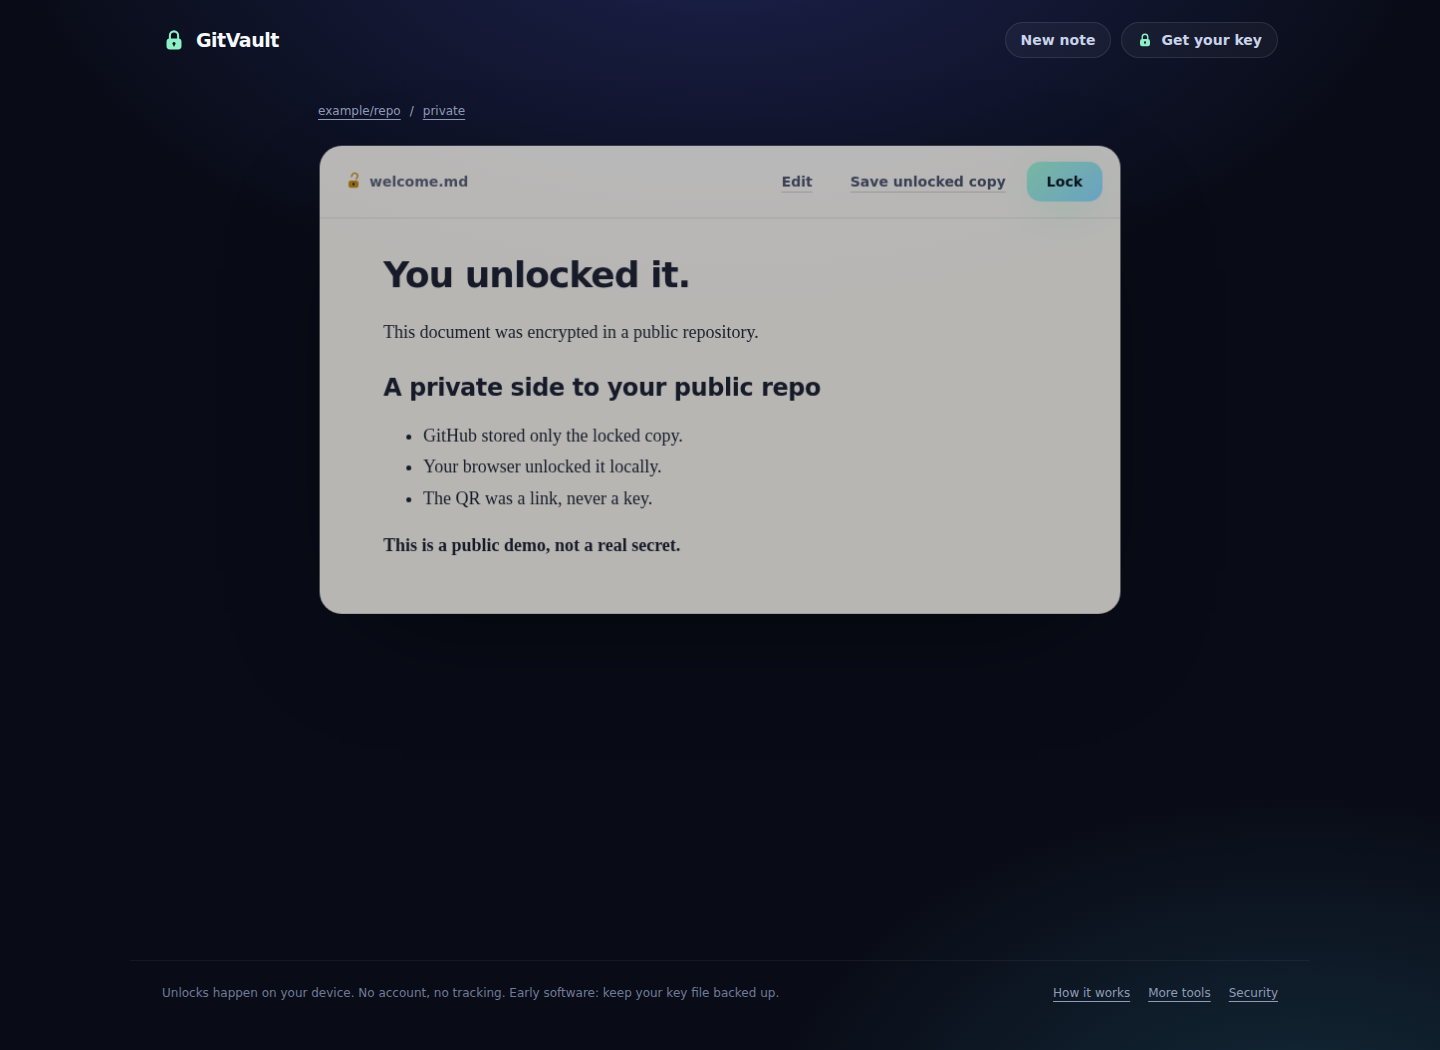
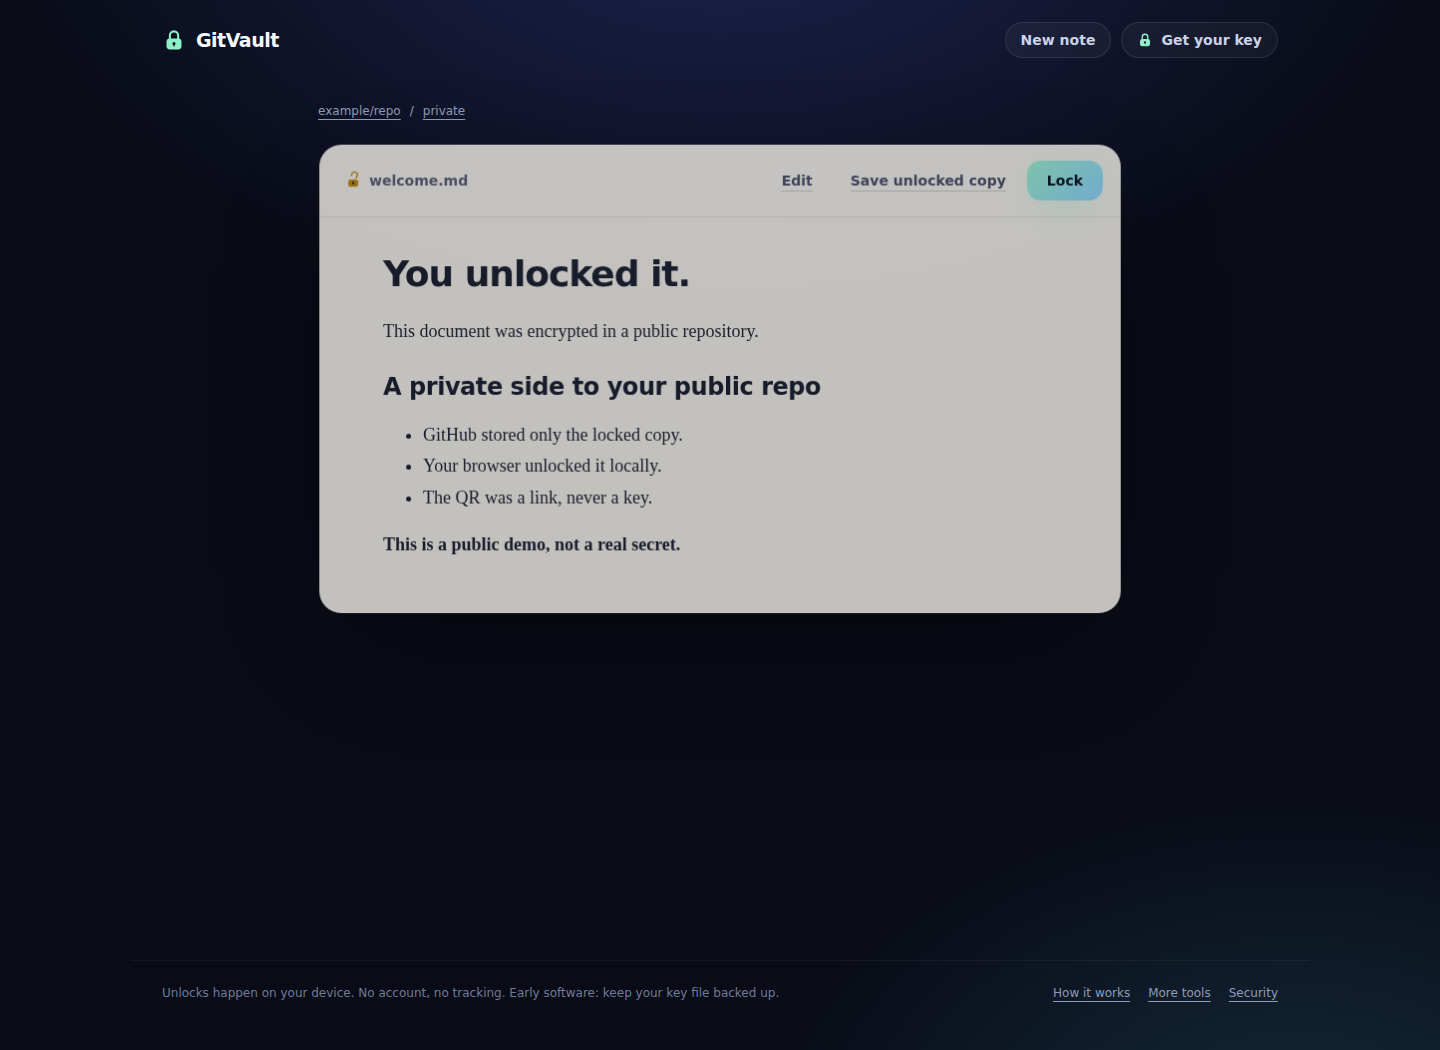
docs: refresh verified app, folder and passkey screenshots

diff --git a/docs/screenshots/README.md b/docs/screenshots/README.md
@@ -2,9 +2,9 @@
 
 These are captures of the running application, not design mockups. All visible documents and credentials are intentionally public test fixtures.
 
-Tested source commit: `1e5df99a111b9dbaa9638c06d09c3ce9487f17c1`.
+Tested source commit: `86c63e6a20c83acd214fdb4cccc5ce6c90fe3356`.
 
-[Successful verification and browser tests](https://github.com/junovhs/gitvault/actions/runs/38013328968)
+[Successful verification and browser tests](https://github.com/junovhs/gitvault/actions/runs/38013605310)
 
 The gallery updates after successful main-branch verification. Newer unverified commits may not be reflected here. Mobile-width images are browser viewport tests, not physical-phone certification. Passkey tests use a virtual authenticator, not a real phone or provider.
 
